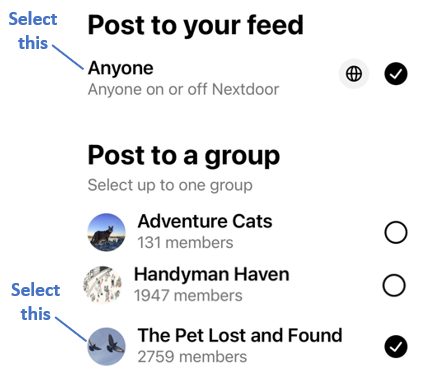
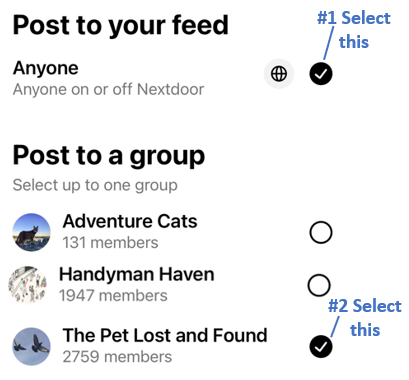
More tweaking the page

diff --git a/how-to-post.html b/how-to-post.html
@@ -152,15 +152,14 @@ html {
 
 	  There are two ways to post your message. You can post only to the Pet Lost 
 	  and Found (PLF).&nbsp; Or, you can post to PLF plus to the wider NextDoor 
-	  audience . 
+	  audience. 
 	  <p> 
 
-	  The best way to reach the widest audience is to use the green "Post" 
+	  The best way to reach the widest audience on Nextdoor is to use the green "Post" 
 	  button 
 	  <strong class="colored-text">(Btn 1)</strong> 
 	  which is 
-	  located at the bottom of the Pet Lost and Found page as shown in the 
-	  diagram below. Don't use the other green posting icon,	  
+	  located at the bottom of the Pet Lost and Found page as shown below. Don't use the other green posting icon,	  
 	  <strong class="colored-text">(Btn 2), </strong>	    
 	  &nbsp;which is located towards the top of the page unless a more limited audience 
 	  view is the goal.<p> 
@@ -171,7 +170,10 @@ class="responsive-image auto-style1">
 
 	  &nbsp;<p> 
 
-	  After clicking the Post button, please select both of the following two options.<br>
+	  After clicking the Post button <strong class="colored-text">(Btn 1)</strong>, 
+	  a page is diplayed where you enter the text of your post along with any 
+	  images. Then, the "Post to your feed" page is diplayed where you will make 
+	  both selections #1 and #2 shown below.<br>
 <br>
 
 <img alt="How to Post" src="image/howToPost 2.png" 
